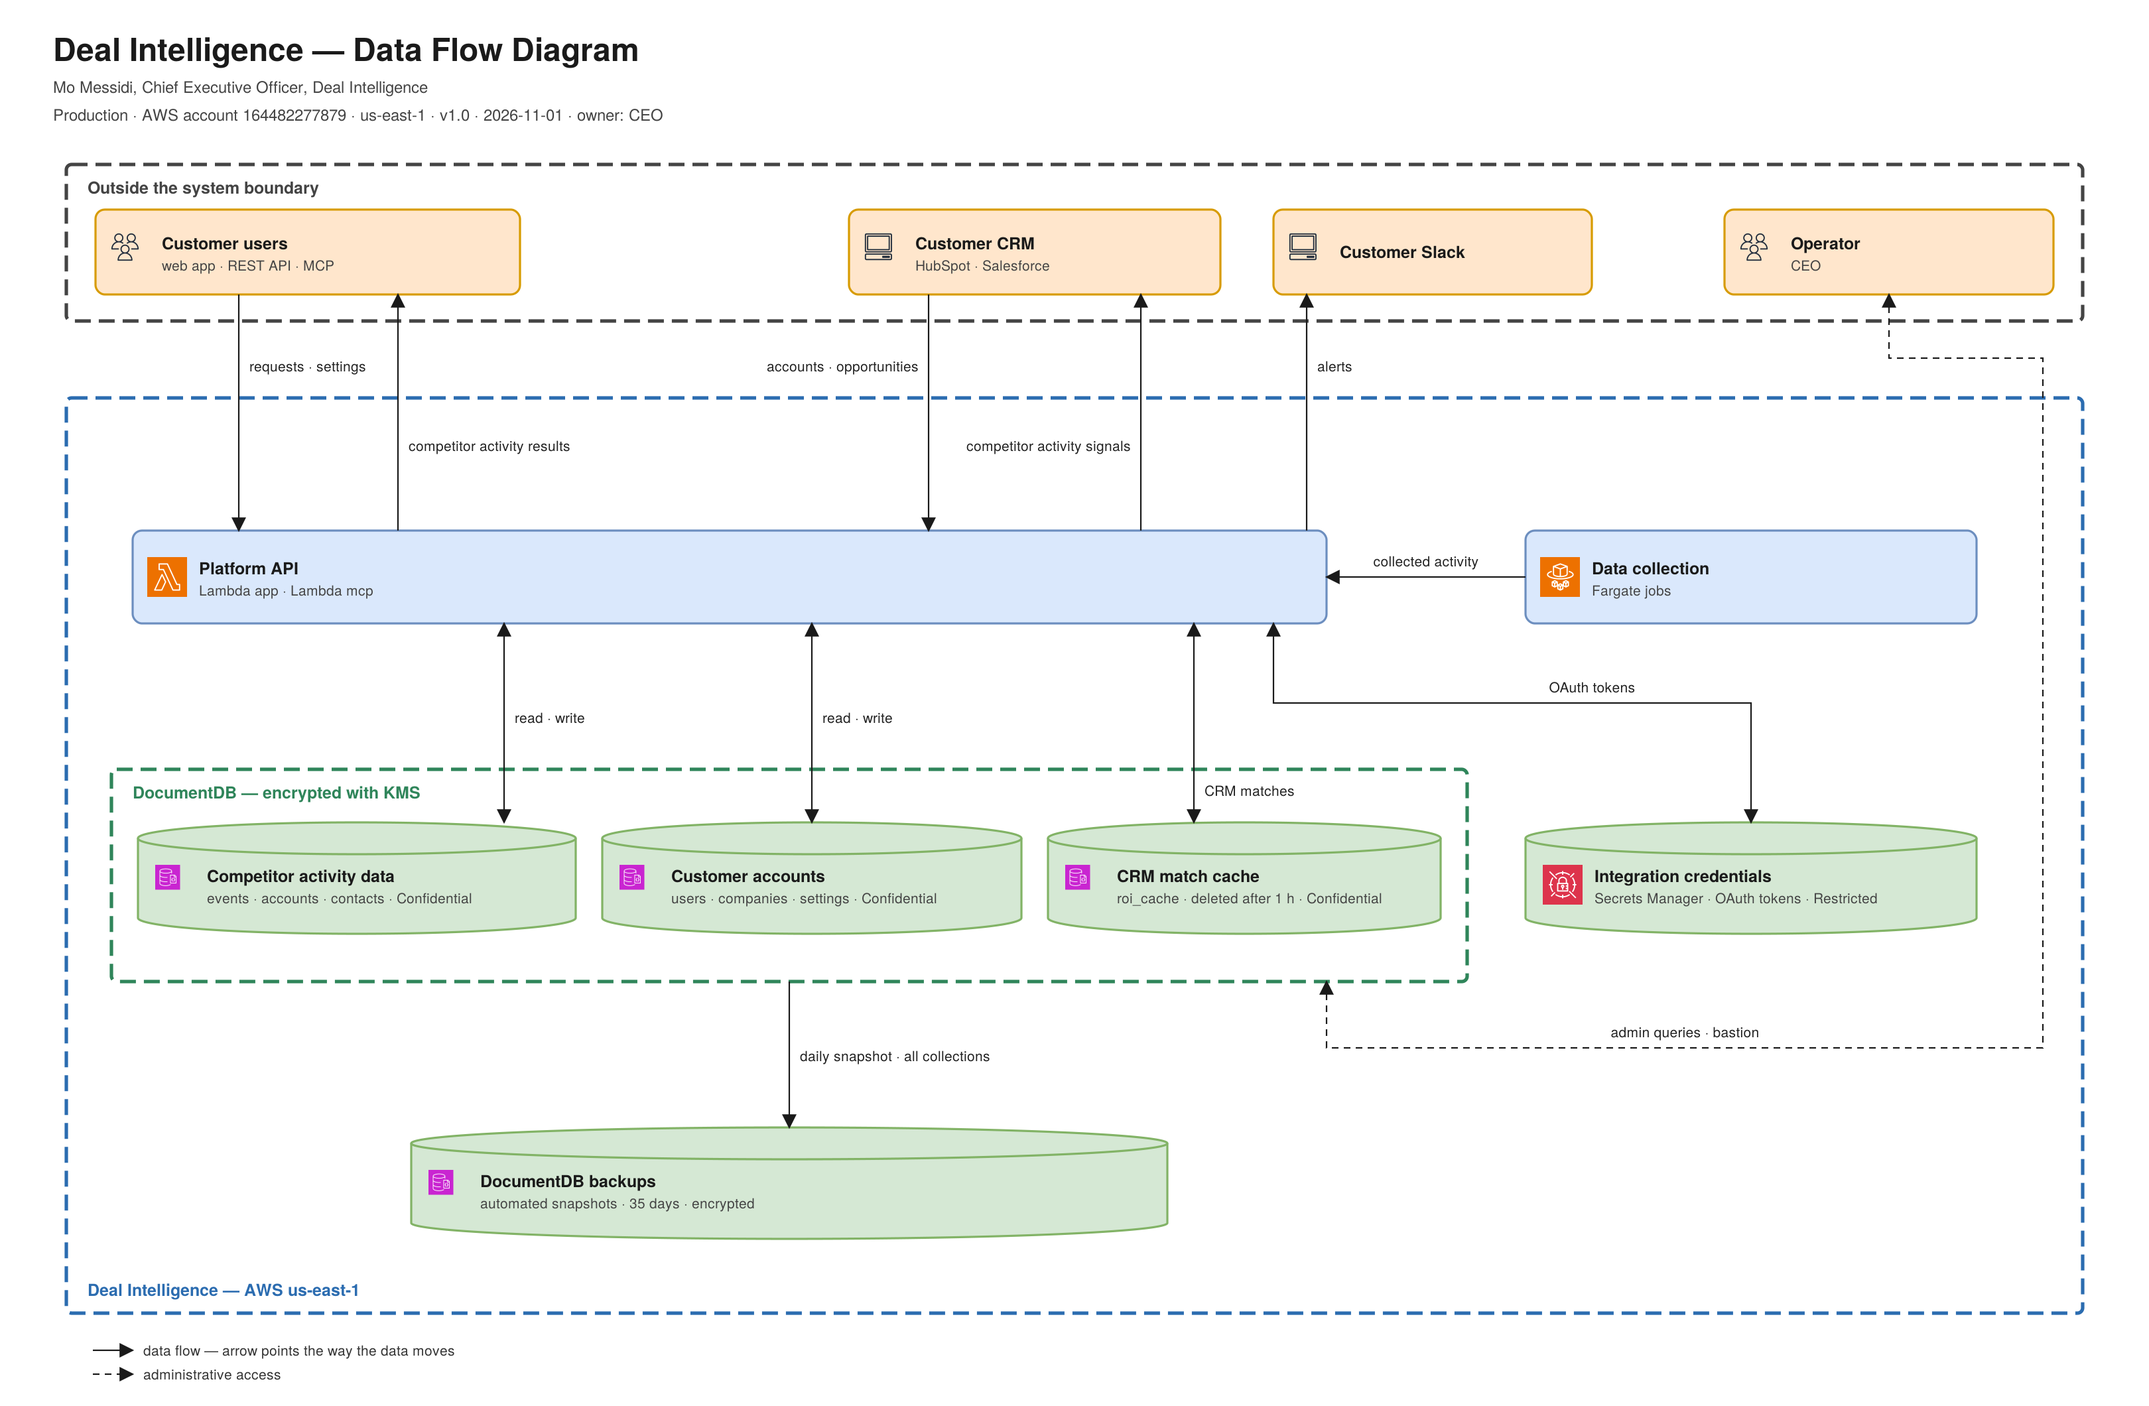
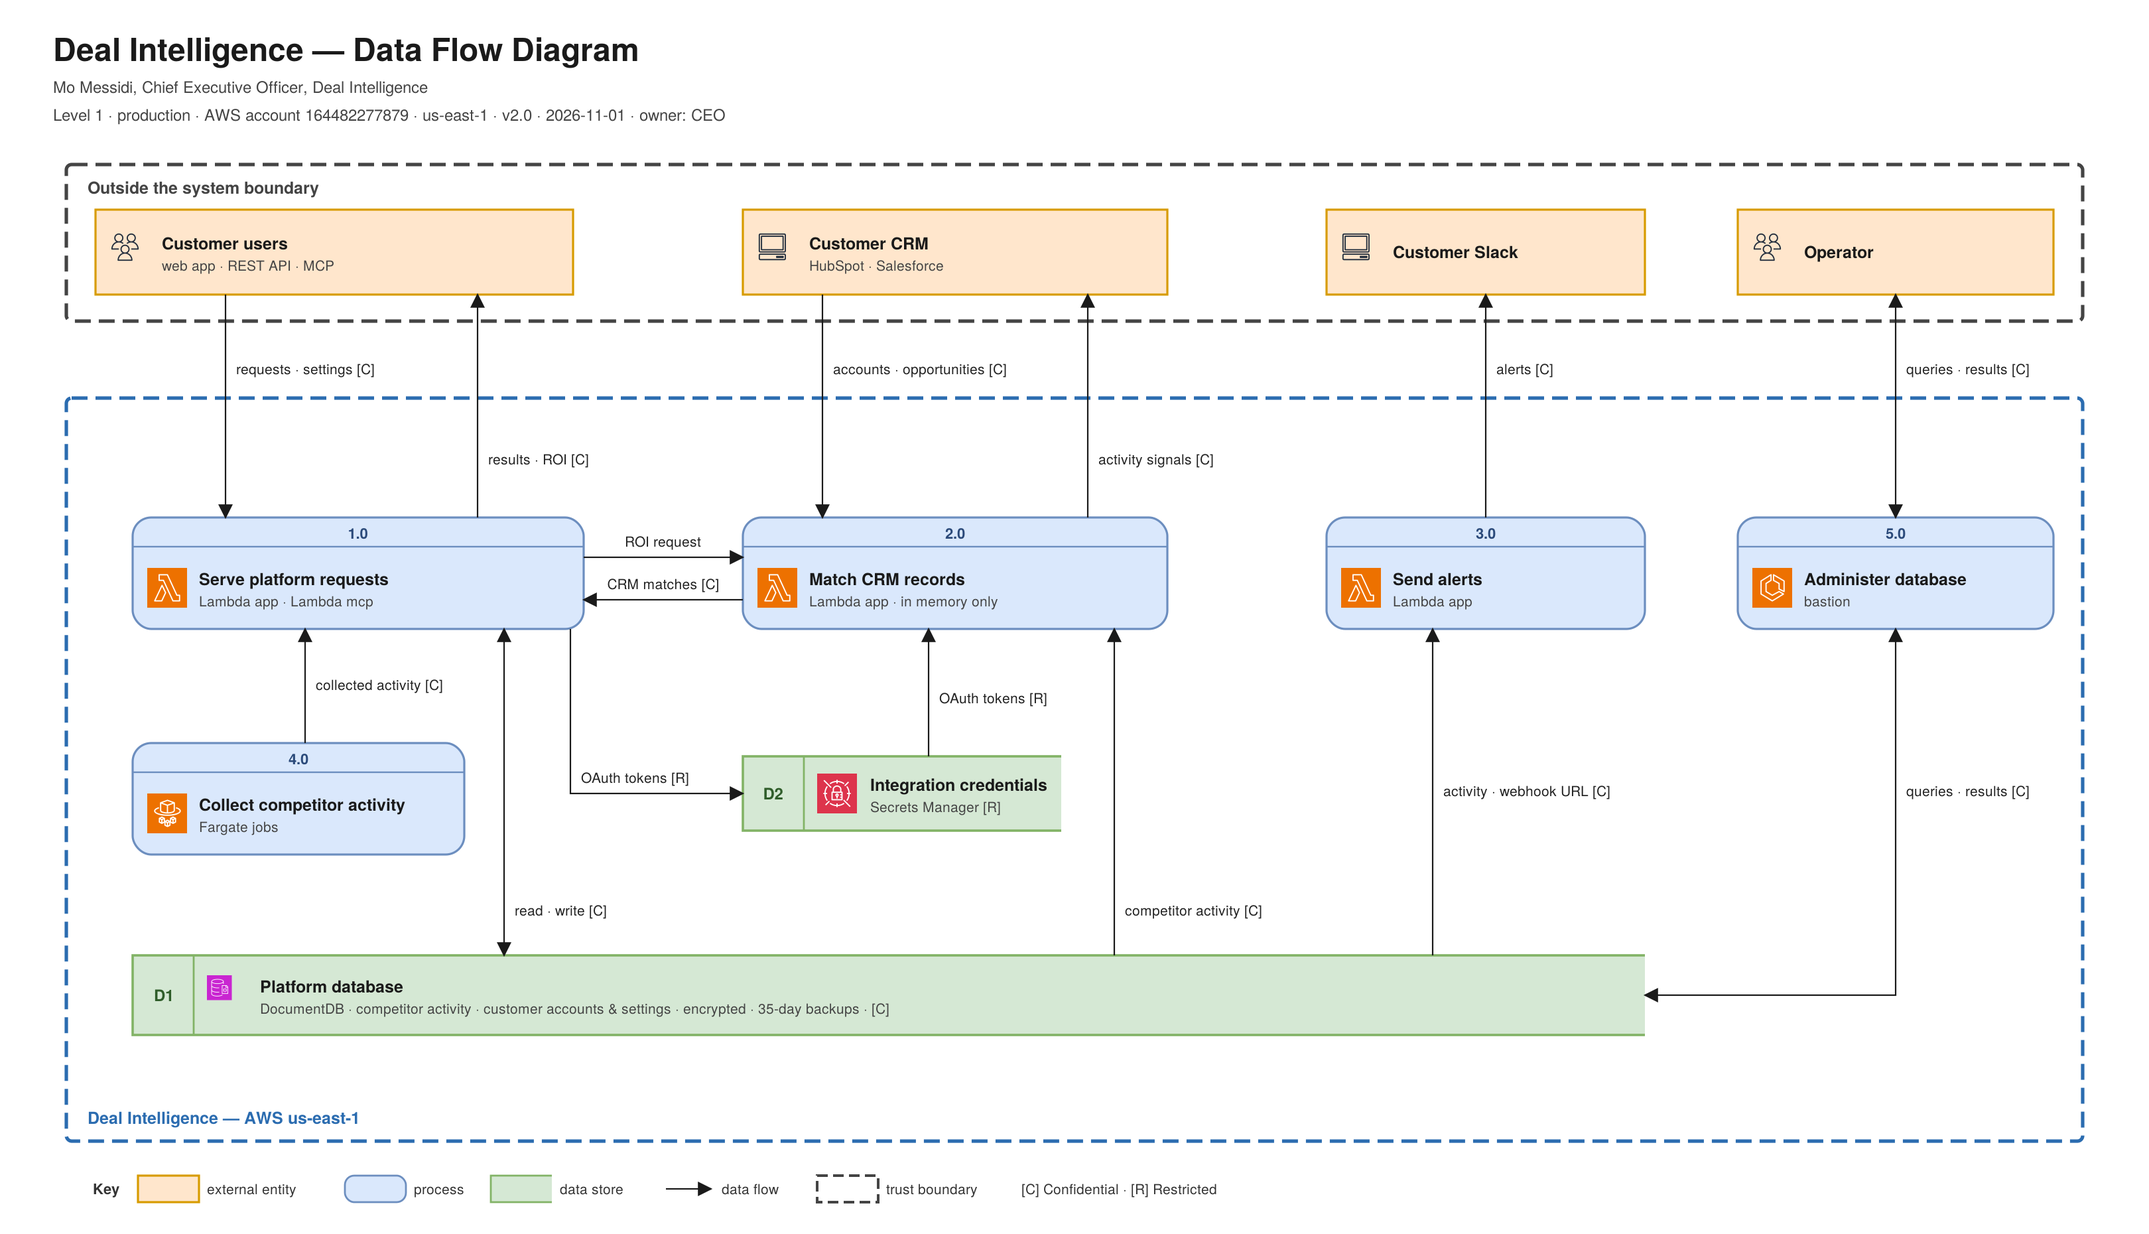
docs(di-migration): data flow diagram v2.0 in Gane-Sarson notation (logical stores, numbered processes)
CRM data shown as processed in memory only (roi_cache now holds status markers only).

Claude-Session: https://claude.ai/code/session_01HHDhHvUwP2Tkd9fWDhAGHC

diff --git a/scripts/di-migration/evidence/data-flow-diagram/make_data_flow_diagram.py b/scripts/di-migration/evidence/data-flow-diagram/make_data_flow_diagram.py
@@ -1,19 +1,26 @@
 #!/usr/bin/env python3
 """
-Deal Intelligence data flow diagrams.
+Deal Intelligence data flow diagrams (Level 1), Gane-Sarson notation.
 
-  internal  every process, data store and outside party that customer data touches.
+  internal  every process, store and outside party that customer data touches.
   customer  the same flows with the customer's systems as the only outside party.
 
-Processes are boxes, data stores are cylinders, outside parties sit in the top band.
-Arrows point the way the data moves and are labelled with what moves. Dashed boxes are
-trust boundaries. Reuses the drawing helpers and AWS icons of ../network-diagram.
+Conventions (Gane-Sarson / Microsoft threat-modelling DFD):
+  external entity  square-cornered rectangle, outside the system boundary
+  process          rounded rectangle with an ID band (1.0, 2.0 ...), named by function
+  data store       open-ended rectangle with an ID cell (D1, D2), a LOGICAL store
+  data flow        arrow in the direction the data moves, labelled with the data and
+                   its classification: [C] Confidential, [R] Restricted
+  trust boundary   dashed rectangle
+Stores connect only to processes; no store-to-store or entity-to-store flows.
+Lines are horizontal/vertical only.
 
-Facts (2026-11-01, di-backend-api): CRM records are pulled with the customer's OAuth
-token and matched in memory; the match result is cached in DocumentDB `roi_cache` with a
-1-hour TTL index. Competitor activity signals are written into the customer's CRM.
-Slack receives alerts through the customer's incoming webhook. OAuth tokens live in
-Secrets Manager. Fargate jobs write collected data through the platform API.
+Facts (2026-11-01, di-backend-api, after the roi_cache change): CRM accounts and
+opportunities are pulled with the customer's OAuth token, matched against competitor
+activity in Lambda memory and never written to a store; competitor activity signals are
+written back to the CRM; Slack alerts go to the customer's incoming webhook (URL kept in
+D1); OAuth tokens are in Secrets Manager; Fargate jobs submit collected activity through
+the platform API; the operator reaches DocumentDB only through the bastion.
 
     python3 make_data_flow_diagram.py [internal|customer]
 """
@@ -24,93 +31,138 @@ HERE = Path(__file__).resolve().parent
 sys.path.insert(0, str(HERE.parent / "network-diagram"))
 import make_network_diagram as nd  # noqa: E402
 
-nd.HERE = HERE  # write outputs next to this script
-Canvas, EXT, INT, SUP, DATE = nd.Canvas, nd.EXT, nd.INT, nd.SUP, nd.DATE
+nd.HERE = HERE
+Canvas, EXT, INT, DATE = nd.Canvas, nd.EXT, nd.INT, nd.DATE
+STORE = ("#d5e8d4", "#82b366")
+VERSION = "v2.0"
 
 
-def both(c, pts, label=None, lx=None, ly=None, anchor="middle"):
-    """Data moving in both directions (read and write)."""
+def entity(c, x, y, w, h, title, sub=None, ic=None):
+    f, s = EXT
+    c.p.append(f'<rect x="{x}" y="{y}" width="{w}" height="{h}" fill="{f}" stroke="{s}" stroke-width="1.6"/>')
+    tx = x + 50 if ic else x + w / 2
+    ta = "start" if ic else "middle"
+    if ic:
+        c.icon(ic, x + 11, y + h / 2 - 15)
+    if sub:
+        c.text(tx, y + h / 2 - 2, title, 12.5, ta, "bold")
+        c.text(tx, y + h / 2 + 14, sub, 10.5, ta, fill="#444")
+    else:
+        c.text(tx, y + h / 2 + 4.5, title, 12.5, ta, "bold")
+
+
+def process(c, x, y, w, h, pid, title, sub=None, ic=None):
+    f, s = INT
+    c.p.append(f'<rect x="{x}" y="{y}" width="{w}" height="{h}" rx="14" ry="14" fill="{f}" stroke="{s}" stroke-width="1.6"/>')
+    c.p.append(f'<line x1="{x}" y1="{y+22}" x2="{x+w}" y2="{y+22}" stroke="{s}" stroke-width="1.2"/>')
+    c.text(x + w / 2, y + 16, pid, 11, "middle", "bold", "#2b4a7a")
+    body = y + 22 + (h - 22) / 2
+    tx = x + 50 if ic else x + w / 2
+    ta = "start" if ic else "middle"
+    if ic:
+        c.icon(ic, x + 11, body - 15)
+    if sub:
+        c.text(tx, body - 2, title, 12.5, ta, "bold")
+        c.text(tx, body + 14, sub, 10.5, ta, fill="#444")
+    else:
+        c.text(tx, body + 4.5, title, 12.5, ta, "bold")
+
+
+def store(c, x, y, w, h, sid, title, sub=None, ic=None):
+    f, s = STORE
+    c.p.append(f'<rect x="{x}" y="{y}" width="{w}" height="{h}" fill="{f}" stroke="none"/>')
+    c.p.append(f'<path d="M{x+w},{y} L{x},{y} L{x},{y+h} L{x+w},{y+h}" fill="none" stroke="{s}" stroke-width="1.8"/>')
+    c.p.append(f'<line x1="{x+46}" y1="{y}" x2="{x+46}" y2="{y+h}" stroke="{s}" stroke-width="1.4"/>')
+    c.text(x + 23, y + h / 2 + 4.5, sid, 12, "middle", "bold", "#2f5d2a")
+    tx = x + 96 if ic else x + 60
+    if ic:
+        c.icon(ic, x + 56, y + h / 2 - 15)
+    if sub:
+        c.text(tx, y + h / 2 - 2, title, 12.5, "start", "bold")
+        c.text(tx, y + h / 2 + 14, sub, 10.5, "start", fill="#444")
+    else:
+        c.text(tx, y + h / 2 + 4.5, title, 12.5, "start", "bold")
+
+
+def flow(c, pts, label=None, lx=None, ly=None, anchor="middle", both=False):
     path = "M" + " L".join(f"{x},{y}" for x, y in pts)
-    c.p.append(f'<path d="{path}" fill="none" stroke="#1a1a1a" stroke-width="1.1" '
-               'marker-start="url(#a)" marker-end="url(#a)"/>')
+    start = ' marker-start="url(#a)"' if both else ""
+    c.p.append(f'<path d="{path}" fill="none" stroke="#1a1a1a" stroke-width="1.1"{start} marker-end="url(#a)"/>')
     if label:
         c.text(lx, ly, label, 10.5, anchor, fill="#222")
 
 
-def dashed(c, pts, label=None, lx=None, ly=None, anchor="middle"):
-    path = "M" + " L".join(f"{x},{y}" for x, y in pts)
-    c.p.append(f'<path d="{path}" fill="none" stroke="#1a1a1a" stroke-width="1.1" stroke-dasharray="5 4" '
-               'marker-start="url(#a)" marker-end="url(#a)"/>')
-    if label:
-        c.text(lx, ly, label, 10.5, anchor, fill="#222")
-
-
-def legend(c, x, y, admin=True):
-    c.p.append(f'<line x1="{x}" y1="{y-4}" x2="{x+30}" y2="{y-4}" stroke="#1a1a1a" stroke-width="1.1" marker-end="url(#a)"/>')
-    c.text(x + 38, y, "data flow — arrow points the way the data moves", 10.5, "start", fill="#333")
-    if admin:
-        c.p.append(f'<line x1="{x}" y1="{y+14}" x2="{x+30}" y2="{y+14}" stroke="#1a1a1a" stroke-width="1.1" '
-                   'stroke-dasharray="5 4" marker-end="url(#a)"/>')
-        c.text(x + 38, y + 18, "administrative access", 10.5, "start", fill="#333")
+def key(c, x, y):
+    c.text(x, y, "Key", 11, "start", "bold", "#333")
+    entity(c, x + 34, y - 14, 46, 20, "")
+    c.text(x + 86, y, "external entity", 10.5, "start", fill="#333")
+    c.p.append(f'<rect x="{x+190}" y="{y-14}" width="46" height="20" rx="7" fill="{INT[0]}" stroke="{INT[1]}" stroke-width="1.4"/>')
+    c.text(x + 242, y, "process", 10.5, "start", fill="#333")
+    c.p.append(f'<path d="M{x+346},{y-14} L{x+300},{y-14} L{x+300},{y+6} L{x+346},{y+6}" fill="{STORE[0]}" stroke="{STORE[1]}" stroke-width="1.4"/>')
+    c.text(x + 352, y, "data store", 10.5, "start", fill="#333")
+    c.p.append(f'<line x1="{x+432}" y1="{y-4}" x2="{x+466}" y2="{y-4}" stroke="#1a1a1a" stroke-width="1.1" marker-end="url(#a)"/>')
+    c.text(x + 474, y, "data flow", 10.5, "start", fill="#333")
+    c.p.append(f'<rect x="{x+546}" y="{y-14}" width="46" height="20" fill="none" stroke="#444" stroke-width="2" stroke-dasharray="8 4"/>')
+    c.text(x + 598, y, "trust boundary", 10.5, "start", fill="#333")
+    c.text(x + 700, y, "[C] Confidential · [R] Restricted", 10.5, "start", fill="#333")
 
 
 def build(variant):
     internal = variant == "internal"
-    c = Canvas(1620, 1060)
-    if internal:
-        c.header("Deal Intelligence — Data Flow Diagram",
-                 f"Production · AWS account 164482277879 · us-east-1 · v1.0 · {DATE} · owner: CEO")
-    else:
-        c.header("Deal Intelligence — Data Flow Diagram", f"Customer data · v1.0 · {DATE}")
+    c = Canvas(1620, 930)
+    sub = (f"Level 1 · production · AWS account 164482277879 · us-east-1 · {VERSION} · {DATE} · owner: CEO"
+           if internal else f"Level 1 · customer data · {VERSION} · {DATE}")
+    c.header("Deal Intelligence — Data Flow Diagram", sub)
 
-    # outside parties
+    # outside the system boundary
     c.boundary(50, 124, 1520, 118, "Outside the system boundary" if internal else "Customer systems")
     ey, eh = 158, 64
-    c.node(72, ey, 320, eh, "Customer users", "web app · REST API · MCP", EXT, "Users")
-    c.node(640, ey, 280, eh, "Customer CRM", "HubSpot · Salesforce", EXT, "Client")
-    c.node(960, ey, 240, eh, "Customer Slack", None, EXT, "Client")
+    entity(c, 72, ey, 360, eh, "Customer users", "web app · REST API · MCP", "Users")
+    entity(c, 560, ey, 320, eh, "Customer CRM", "HubSpot · Salesforce", "Client")
+    entity(c, 1000, ey, 240, eh, "Customer Slack", None, "Client")
     if internal:
-        c.node(1300, ey, 248, eh, "Operator", "CEO", EXT, "Users")
+        entity(c, 1310, ey, 238, eh, "Operator", None, "Users")
 
-    # platform
-    A = 300
-    c.boundary(50, A, 1520, 690, "Deal Intelligence — AWS us-east-1", "#2b6cb0", at="bottom")
-    c.node(100, 400, 900, 70, "Platform API", "Lambda app · Lambda mcp", INT, "AWSLambda")
+    # system boundary
+    c.boundary(50, 300, 1520, 560, "Deal Intelligence — AWS us-east-1", "#2b6cb0", at="bottom")
+    py, ph = 390, 84
+    process(c, 100, py, 340, ph, "1.0", "Serve platform requests", "Lambda app · Lambda mcp", "AWSLambda")
+    process(c, 560, py, 320, ph, "2.0", "Match CRM records", "Lambda app · in memory only", "AWSLambda")
+    process(c, 1000, py, 240, ph, "3.0", "Send alerts", "Lambda app", "AWSLambda")
     if internal:
-        c.node(1150, 400, 340, 70, "Data collection", "Fargate jobs", INT, "AWSFargate")
+        process(c, 1310, py, 238, ph, "5.0", "Administer database", "bastion", "AmazonElasticContainerService")
+        process(c, 100, 560, 250, ph, "4.0", "Collect competitor activity", "Fargate jobs", "AWSFargate")
+    store(c, 560, 570, 240, 56, "D2", "Integration credentials", "Secrets Manager [R]", "AWSSecretsManager")
+    store(c, 100, 720, 1140, 60, "D1", "Platform database",
+          "DocumentDB · competitor activity · customer accounts & settings · encrypted · 35-day backups · [C]",
+          "AmazonDocumentDB")
 
-    c.boundary(84, 580, 1022, 160, "DocumentDB — encrypted with KMS", "#2f855a")
-    c.cyl(104, 620, 330, 84, "Competitor activity data", "events · accounts · contacts · Confidential", "AmazonDocumentDB")
-    c.cyl(454, 620, 316, 84, "Customer accounts", "users · companies · settings · Confidential", "AmazonDocumentDB")
-    c.cyl(790, 620, 296, 84, "CRM match cache", "roi_cache · deleted after 1 h · Confidential", "AmazonDocumentDB")
-    c.cyl(1150, 620, 340, 84, "Integration credentials", "Secrets Manager · OAuth tokens · Restricted", "AWSSecretsManager")
-    c.cyl(310, 850, 570, 84, "DocumentDB backups", "automated snapshots · 35 days · encrypted", "AmazonDocumentDB")
-
-    # customer users <-> API
-    c.arrow([(180, ey + eh), (180, 400)], "requests · settings", 188, 280, "start")
-    c.arrow([(300, 400), (300, ey + eh)], "competitor activity results", 308, 340, "start")
-    # CRM <-> API
-    c.arrow([(700, ey + eh), (700, 400)], "accounts · opportunities", 692, 280, "end")
-    c.arrow([(860, 400), (860, ey + eh)], "competitor activity signals", 852, 340, "end")
-    # API -> Slack
-    c.arrow([(985, 400), (985, ey + eh)], "alerts", 993, 280, "start")
-    # Fargate -> API
+    # entities <-> processes (crossing the system boundary)
+    flow(c, [(170, ey + eh), (170, py)], "requests · settings [C]", 178, 282, "start")
+    flow(c, [(360, py), (360, ey + eh)], "results · ROI [C]", 368, 350, "start")
+    flow(c, [(620, ey + eh), (620, py)], "accounts · opportunities [C]", 628, 282, "start")
+    flow(c, [(820, py), (820, ey + eh)], "activity signals [C]", 828, 350, "start")
+    flow(c, [(1120, py), (1120, ey + eh)], "alerts [C]", 1128, 282, "start")
     if internal:
-        c.arrow([(1150, 435), (1000, 435)], "collected activity", 1075, 427, "middle")
+        flow(c, [(1429, ey + eh), (1429, py)], "queries · results [C]", 1437, 282, "start", both=True)
 
-    # API <-> stores
-    both(c, [(380, 470), (380, 620)], "read · write", 388, 545, "start")
-    both(c, [(612, 470), (612, 620)], "read · write", 620, 545, "start")
-    both(c, [(900, 470), (900, 620)], "CRM matches", 908, 600, "start")
-    both(c, [(1320, 620), (1320, 530), (960, 530), (960, 470)], "OAuth tokens", 1200, 522, "middle")
-    # stores -> backups
-    c.arrow([(595, 740), (595, 850)], "daily snapshot · all collections", 603, 800, "start")
-
+    # process <-> process
+    flow(c, [(440, 420), (560, 420)], "ROI request", 500, 412, "middle")
+    flow(c, [(560, 452), (440, 452)], "CRM matches [C]", 500, 444, "middle")
     if internal:
-        dashed(c, [(1424, ey + eh), (1424, 270), (1540, 270), (1540, 790), (1000, 790), (1000, 740)],
-               "admin queries · bastion", 1270, 782, "middle")
+        flow(c, [(230, 560), (230, py + ph)], "collected activity [C]", 238, 520, "start")
 
-    legend(c, 70, 1022, admin=internal)
+    # processes <-> stores
+    flow(c, [(380, py + ph), (380, 720)], "read · write [C]", 388, 690, "start", both=True)
+    flow(c, [(430, py + ph), (430, 598), (560, 598)], "OAuth tokens [R]", 438, 590, "start")
+    flow(c, [(700, 570), (700, py + ph)], "OAuth tokens [R]", 708, 530, "start")
+    flow(c, [(840, 720), (840, py + ph)], None)
+    c.text(848, 690, "competitor activity [C]", 10.5, "start", fill="#222")
+    flow(c, [(1080, 720), (1080, py + ph)], "activity · webhook URL [C]", 1088, 600, "start")
+    if internal:
+        flow(c, [(1429, py + ph), (1429, 750), (1240, 750)], "queries · results [C]", 1437, 600, "start", both=True)
+
+    key(c, 70, 900)
     c.save(f"di-backend-data-flow-{variant}")
 
 

diff --git a/scripts/di-migration/evidence/data-flow-diagram/README.md b/scripts/di-migration/evidence/data-flow-diagram/README.md
@@ -1,23 +1,31 @@
-# Data flow diagrams — di-backend-api production
+# Data flow diagrams — di-backend-api production (Level 1)
 
 | File | Audience |
 |---|---|
 | `di-backend-data-flow-internal-2026-11-01.png` | Engineering, auditor. Every process, store and outside party customer data touches. |
 | `di-backend-data-flow-customer-2026-11-01.png` | Customers. Customer systems are the only outside parties. |
 
-Companion to `../network-diagram/` (which shows connections and ports). Here boxes are
-processes, cylinders are data stores (with collection names and classification from the
-Data Classification and Handling Standard), dashed boxes are trust boundaries, and arrows
-point the way the data moves, labelled with what moves.
+Companion to `../network-diagram/` (connections and ports). Drawn in Gane-Sarson notation,
+the convention used for security DFDs (Microsoft threat modelling, PCI DSS 1.2.4):
 
-Facts as of 2026-11-01 from di-backend-api:
-- CRM accounts and opportunities are pulled with the customer's OAuth token and matched
-  in memory. The match result is cached in DocumentDB `roi_cache`, removed by a 1-hour
-  TTL index; DocumentDB snapshots (35 days) can capture rows present at snapshot time.
-- Competitor activity signals are written to the customer's CRM; alerts go to the
-  customer's Slack incoming webhook. Neither CRM nor Slack sends data to the platform
-  on its own initiative.
-- OAuth tokens are stored in Secrets Manager, not DocumentDB.
-- Fargate jobs write collected data through the platform API.
+- External entities: square rectangles, outside the system boundary.
+- Processes: rounded rectangles with an ID (1.0 ...), named by what they do with the data.
+- Data stores: open-ended rectangles with an ID (D1, D2). These are logical stores:
+  D1 is the one DocumentDB cluster, D2 is Secrets Manager.
+- Data flows: arrows in the direction the data moves, labelled with the data and its
+  classification ([C] Confidential, [R] Restricted, per the Data Classification and
+  Handling Standard). Stores connect only to processes.
+- Trust boundaries: dashed rectangles.
+
+Facts as of 2026-11-01 from di-backend-api (with the roi_cache change applied):
+- 2.0 pulls CRM accounts and opportunities with the customer's OAuth token, matches them
+  against competitor activity in Lambda memory (15-minute in-process cache) and returns
+  the result to 1.0. No flow from 2.0 to any store: CRM data is never written to D1, D2
+  or backups. DocumentDB `roi_cache` holds a build-status marker only (no CRM content).
+- 2.0 writes competitor activity signals into the customer's CRM.
+- 3.0 posts alerts to the customer's Slack incoming webhook (URL stored in D1).
+- OAuth tokens are written by 1.0 at connect time and read by 2.0; they live in D2.
+- 4.0 (Fargate jobs) submits collected activity through 1.0.
+- 5.0: the operator reaches D1 only through the bastion.
 
 Source: `make_data_flow_diagram.py` (reuses the helpers and AWS icons in `../network-diagram`).
